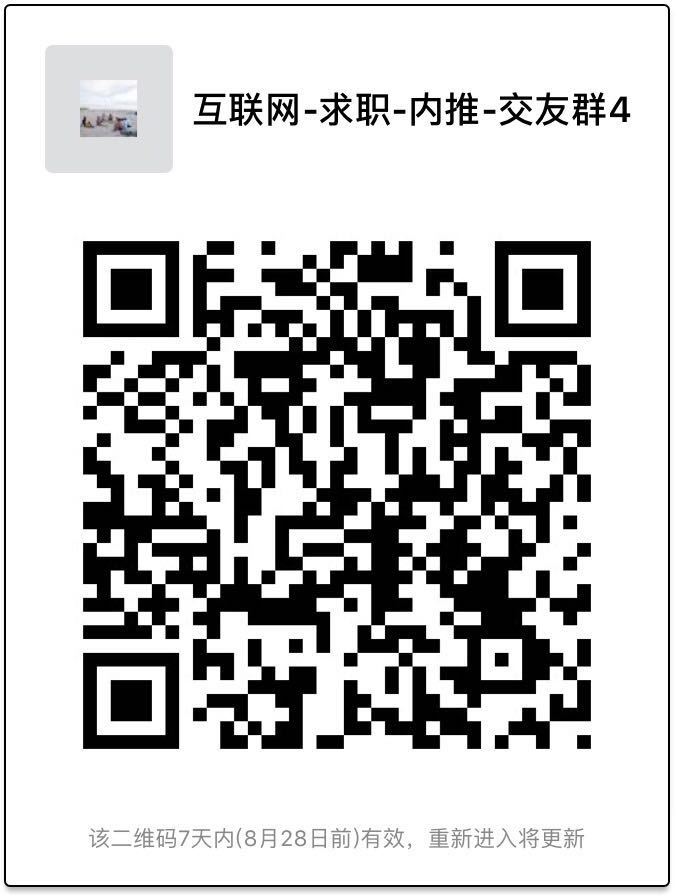
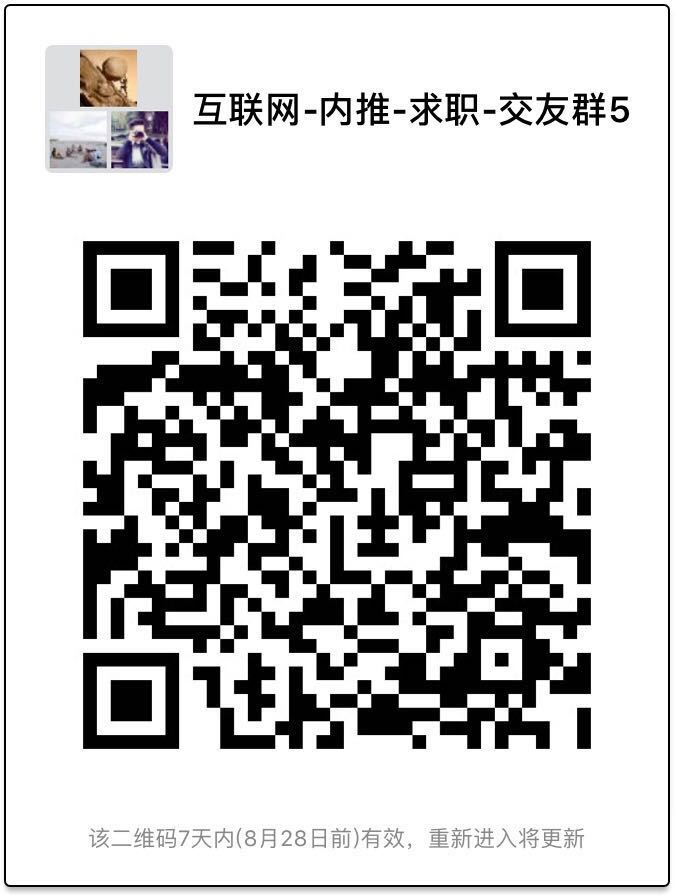
Update README

diff --git a/README.md b/README.md
@@ -210,7 +210,7 @@
 <img src='./img/WechatIMG67.jpeg' width='30%'>
 </div>
 <br>
-<div align=center>4群刚开大家可以扫码直接进</div>
+<div align=center>5群刚开大家可以扫码直接进</div>
 <br>
 <div align=center>如果你觉得对你有帮助，那就随意打赏吧</div>
 <br>
